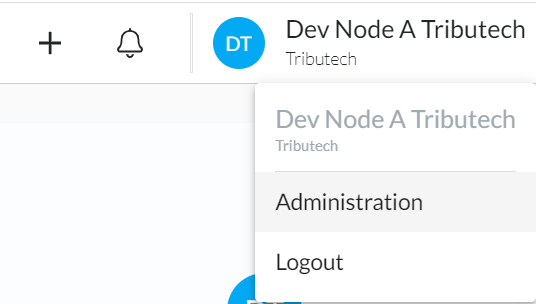
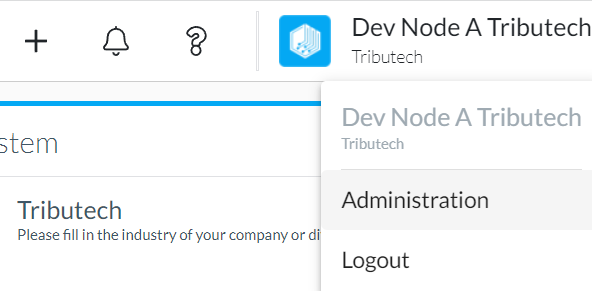
fix: replaced screenshots and fixed api page

diff --git a/docs/consume_data/api.md b/docs/consume_data/api.md
@@ -5,8 +5,8 @@ sidebar_position: 4
 
 The Tributech DataSpace Kit provides two REST APIs:
 
-- Data-API
-- Trust-API
+- Data-API (data-api.[node name].dataspace-node.com)
+- Trust-API (trust-api.[node name].dataspace-node.com)
 
 The image below shows you how the APIs are integrated into the DataSpace Kit.
 ![Integration via APIs](assets/integration.png)
@@ -17,8 +17,7 @@ In short, the Data-API is used for values whereas the Trust-API is used for proo
 
 ## Data-API Specifications
 
-Data-API calls and specifications can be found by clicking the "Data-API" tab on the node dashboard.
-![image](assets/data_api_tab.png)
+Data-API calls and specifications can be found at data-api.[node name].dataspace-node.com
 
 The page gives an overview of the available calls and actions.
 ![image](assets/data_api_base.png)
@@ -29,8 +28,7 @@ Please note that all timestamps need to be provided in microseconds!
 
 ## Trust-API Specifications
 
-The Trust-API specifications can also be found on the node dashboard.
-![image](assets/trust_api_tab.png)
+Trust-API calls and specifications can be found at trust-api.[node name].dataspace-node.com
 
 The page gives an overview of the available calls and actions.
 ![image](assets/trust_api_base.png)
@@ -91,8 +89,8 @@ Please note that all timestamps need to be provided in microseconds!
 
 1. On your node dashboard: Access your profile on the top right and head to "Administration->API Keys" to find your Data-API client secret. Copy it.  
    ![image](assets/administration.png)
-2. Head to the Data-API specification page.  
-   ![image](assets/data_api_tab_small.png)
+2. Head to the Data-API specification page (data-api.[node name].dataspace-node.com).  
+   ![image](assets/data_api_swagger_small.png)
 3. Click the "Authorize" button and paste the Data-API client secret.  
    ![image](assets/authorize.png)  
    ![image](assets/authorize_secret.png)
